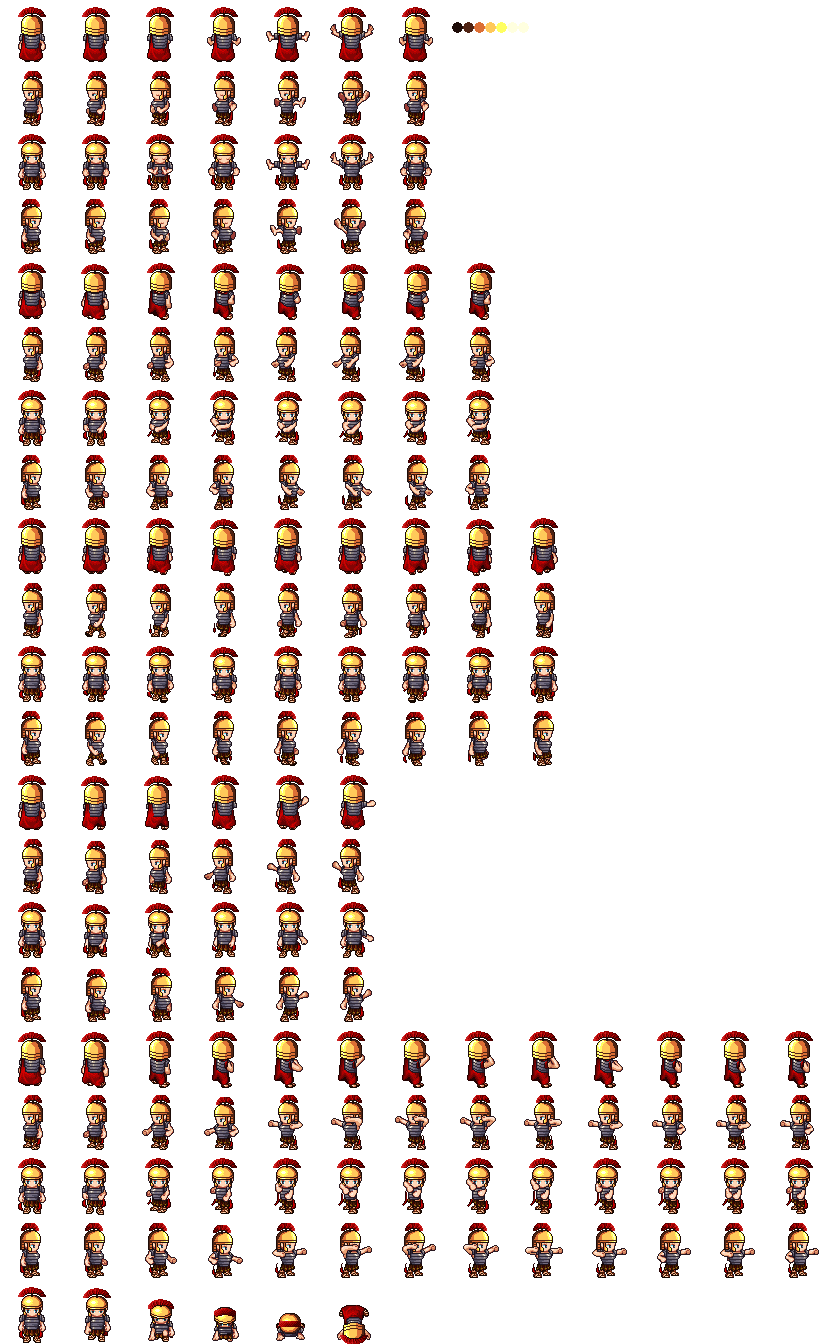
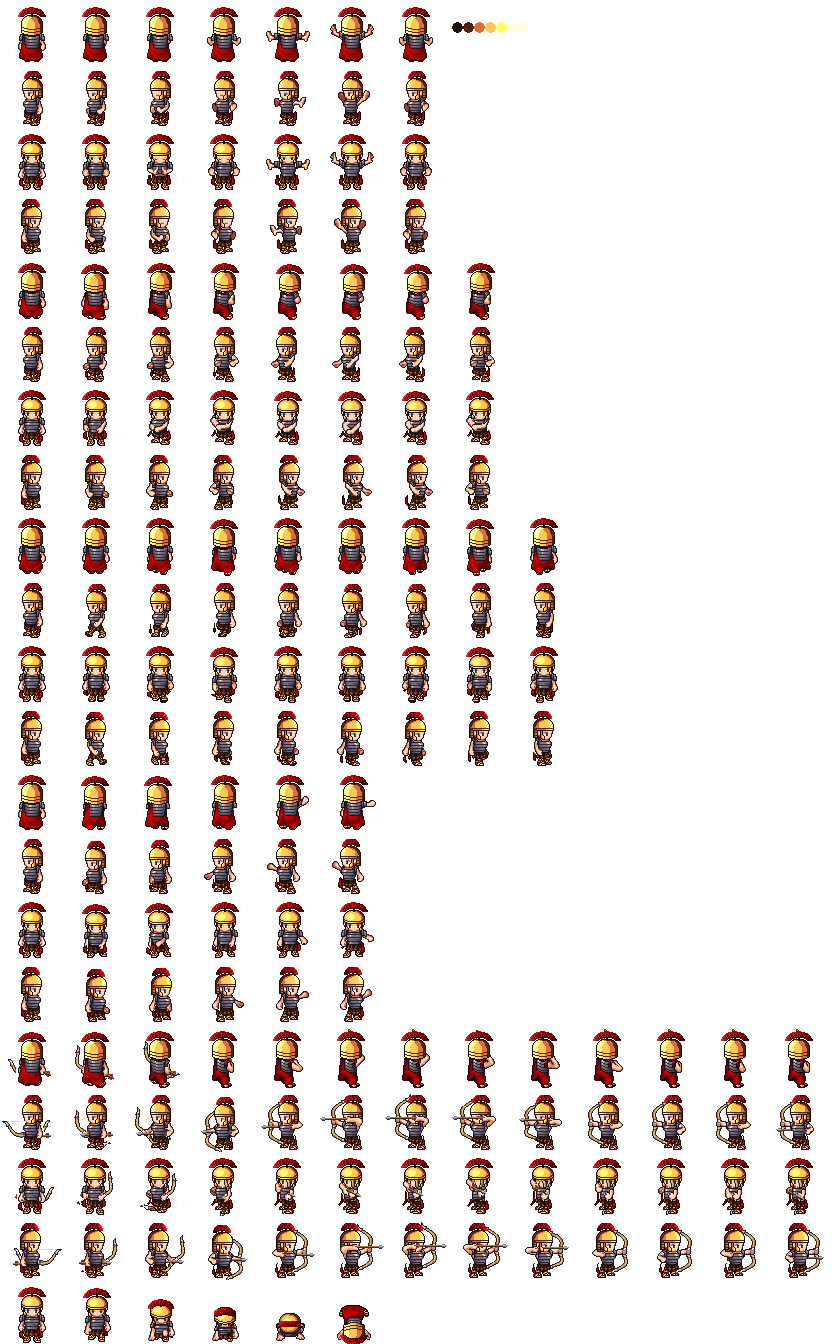
Adiciona arco as Torres menores

diff --git a/js/Map.js b/js/Map.js
@@ -285,7 +285,7 @@ Map.prototype.criaPersonagem = function(linha, coluna, seletor){//Função que g
     a.dir = "";//Variável de direção para controlar melhor as poses
     a.tempoPunch = 0;//Variável que controla o tempo do som de cada som de punch
     a.tempoFlecha = 0;//Variável que controla o tempo da flecha
-    if (seletor == 0 || seletor == 1 || seletor == 3){//Controla se o personagem pode atirar
+    if (seletor == 0 || seletor == 1 || seletor == 3 || seletor == 10 || seletor == 11){//Controla se o personagem pode atirar
       a.atira = true;
     }else{
       a.atira = false;
@@ -329,6 +329,7 @@ Map.prototype.criaPersonagem = function(linha, coluna, seletor){//Função que g
     b.life = 100;
     b.destroyed = false;
     if(seletor == 5 || seletor == 6){
+      b.pose = 2;
       b.mover = false;
     }
     else b.mover = true;//Permite que o personagem se mova
@@ -336,7 +337,7 @@ Map.prototype.criaPersonagem = function(linha, coluna, seletor){//Função que g
     b.dir = "";//Variável de direção para controlar melhor as poses
     b.tempoPunch = 0;//Variável que controla o tempo do som de cada som de punch
     b.tempoFlecha = 0;//Variável que controla o tempo da flecha
-    if (seletor == 1 || seletor == 3){//Controla se o personagem pode atirar
+    if (seletor == 1 || seletor == 3 || seletor == 5 || seletor == 6){//Controla se o personagem pode atirar
       b.atira = true;
     }else{
       b.atira = false;
